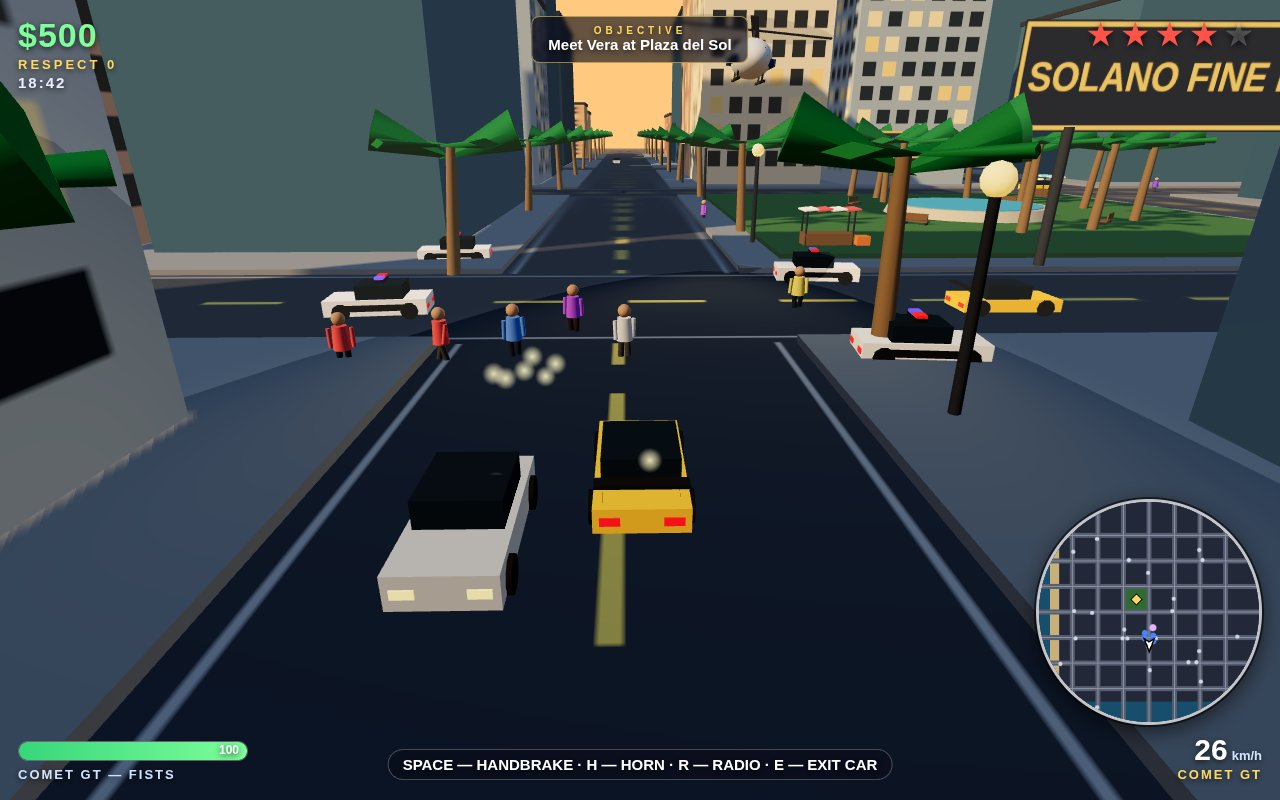
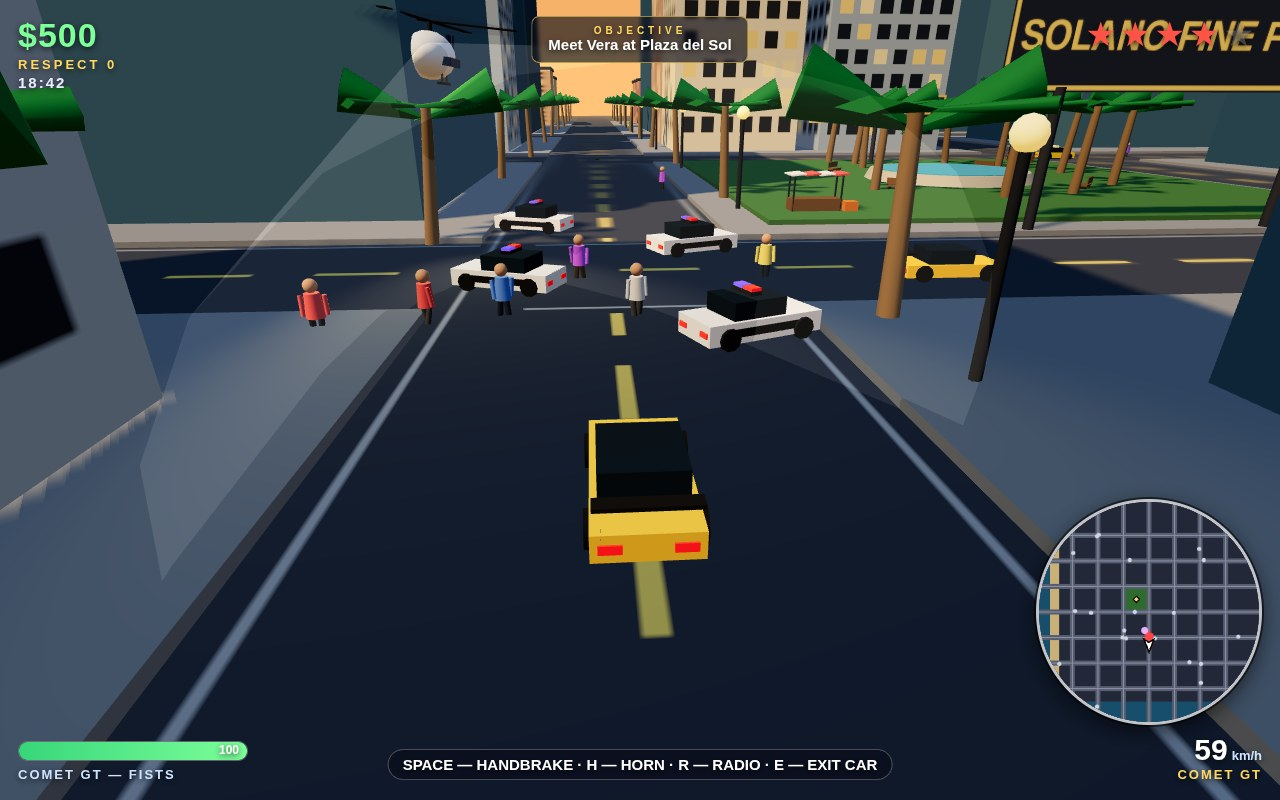
Round 4 (v4): presentation pass on the v2 base (2307a6b) — brighter sun/exposure, restaged screenshots: heli + roadblock cover, 4-cruiser chase, fountain-rim gunfight, clean beachfront getaway

diff --git a/game/js/main.js b/game/js/main.js
@@ -95,14 +95,15 @@ class Game {
     this.renderer.shadowMap.type = THREE.PCFSoftShadowMap;
     this.renderer.outputColorSpace = THREE.SRGBColorSpace;
     this.renderer.toneMapping = THREE.ACESFilmicToneMapping;
-    this.renderer.toneMappingExposure = 1.2;
+    this.renderer.toneMappingExposure = 1.3;
     document.getElementById('game').appendChild(this.renderer.domElement);
     this.scene = new THREE.Scene();
     this.scene.background = new THREE.Color(0xf7b26a);
     this.scene.fog = new THREE.Fog(0xe8a06a, 180, 620);
-    // Golden-hour sun from the west-southwest.
+    // Golden-hour sun from the west-southwest, raised a little so the
+    // avenues and the plaza read bright and sun-soaked, not shadowed.
     this.sun = new THREE.DirectionalLight(0xffd9a0, 2.6);
-    this.sun.position.set(-190, 150, 120);
+    this.sun.position.set(-165, 215, 105);
     this.sun.castShadow = true;
     this.sun.shadow.mapSize.set(2048, 2048);
     this.sun.shadow.camera.left = -260;
@@ -112,7 +113,7 @@ class Game {
     this.sun.shadow.camera.far = 700;
     this.sun.shadow.bias = -0.0004;
     this.scene.add(this.sun);
-    this.scene.add(new THREE.HemisphereLight(0x87a5c9, 0x8a6f4d, 1.5));
+    this.scene.add(new THREE.HemisphereLight(0x87a5c9, 0x8a6f4d, 1.65));
     this.camera = new THREE.PerspectiveCamera(62, innerWidth / innerHeight, 0.1, 1200);
     this.camera.position.set(SPAWN.x, 8, SPAWN.z + 12);
     addEventListener('resize', () => {
@@ -558,8 +559,8 @@ class Game {
       this.player.enterCar(car);
       car.speed = 20;
       this.camYaw = Math.PI;
-      this.camDistTarget = 12;
-      this.vehicles.spawnTraffic(10, 0, 60);
+      this.camDistTarget = 10;
+      this.vehicles.spawnTraffic(6, 0, 60);
       extraCrowd(0, 55, 10, 24);
       this.setWanted(4);
       // Four cruisers staged ahead in a loose roadblock so the wanted
@@ -571,9 +572,9 @@ class Game {
         pc.speed = 18;
         this.vehicles.police.push(pc);
       }
-      // The police helicopter hangs over the avenue ahead, its searchlight
-      // beam raking down onto the car (staged far ahead so it is in frame).
-      this.heli.stageAt(10, 40, 0, 96, 13);
+      // The police helicopter hangs over the avenue ahead-left, clear of
+      // the objective banner, its searchlight beam raking down onto the car.
+      this.heli.stageAt(-11, 47, 0, 96, 10);
       this.missions.index = 0;
       this.missions.startStory();
       startPlaying();
@@ -582,44 +583,44 @@ class Game {
       this.player.enterCar(car);
       car.speed = 26;
       this.camYaw = 0;
-      this.camDistTarget = 13;
+      this.camDistTarget = 10.5;
       // Police pursuit, staged deterministically ahead of the player so they
       // stay in frame: spawnPolice() picks a random road point instead.
-      for (let i = 0; i < 3; i++) {
-        const pc = this.vehicles.spawnCar(CAR_DEFS[0], 65 + (i % 2 ? -3.5 : 3.5), 56 + i * 12, 0, true);
+      // Four cruisers in a staggered pack, close enough to read as a chase.
+      for (let i = 0; i < 4; i++) {
+        const pc = this.vehicles.spawnCar(CAR_DEFS[0], 65 + (i % 2 ? -3.5 : 3.5), 54 + i * 8, 0, true);
         pc.isPolice = true;
         pc.speed = 24;
         this.vehicles.police.push(pc);
       }
-      this.vehicles.spawnTraffic(8, 65, 0);
+      this.vehicles.spawnTraffic(8, 65, 110);
       extraCrowd(65, 20, 8, 30);
       // Finale staging: step 2 of Skyfall is a 5-star escape drive, which
       // also brings the helicopter in overhead.
       this.missions.index = 8;
       this.missions.startStory();
       this.missions.advanceStep();
-      this.heli.stageAt(57, 100, 65, 40, 13);
+      this.heli.stageAt(58, 92, 65, 40, 12);
       startPlaying();
     } else if (this.shotMode === 'street') {
-      // Plaza del Sol park centre is (32.5, 32.5) with a fountain (r 7.6) —
-      // stand on the open grass south-west of it, facing the fountain, so
-      // the camera has a clear sightline (the old (-32,-18) spot was inside
-      // a building block and the camera filmed a wall). The stance point
-      // keeps the chase camera clear of the market-stall collider, which
-      // would otherwise lift it into a top-down view. Leo faces the
-      // fountain with his SMG up; the rival crew closes in around it.
-      this.player.place(24, 48, 2.64);
+      // Plaza del Sol park centre is (32.5, 32.5) with a fountain (r 7.6).
+      // Round 4 stance: the sunlit east rim of the fountain, close in, so
+      // the gunfight fills the frame — the old south-west grass stance sat
+      // in building shadow and left Leo small in a sea of dark lawn. Leo
+      // faces the fountain with his SMG up; the rival crew closes in
+      // around the rim, every stance point outside the fountain collider.
+      this.player.place(46, 44, -2.28);
       this.player.giveWeapon('pistol');
       this.player.giveWeapon('smg');
       this.player.equip('smg');
-      this.camYaw = 2.64;
-      this.camDistTarget = 8;
+      this.camYaw = -2.28;
+      this.camDistTarget = 6.5;
       this.setWanted(1);
       this.missions.index = 0;
       this.missions.startStory();
       // Rival crew shooting in the plaza — spawned by hand in the view
       // cone so they are in frame (mission 5's rivals spawn far away).
-      for (const [rx, rz] of [[24, 33], [34, 42], [41, 34]]) {
+      for (const [rx, rz] of [[41, 40], [43, 36], [38, 42]]) {
         const r = this.peds.spawnPed(rx, rz, false);
         r.isRival = true;
         r.hp = 100;
@@ -629,16 +630,29 @@ class Game {
         this.peds.armPed(r);
         this.missions.rivals.push(r);
       }
-      extraCrowd(32, 32, 10, 26);
+      extraCrowd(30, 30, 8, 20);
       startPlaying();
+      // The screenshot driver fires Leo's SMG through the game's own
+      // trigger once the camera has settled behind him, so a muzzle flash
+      // is up in the captured frame.
     } else if (this.shotMode === 'sunset') {
-      const car = spawn(-195, 30, Math.PI, CAR_DEFS[1]);
+      const car = spawn(-195, 52, Math.PI, CAR_DEFS[1]);
       this.player.enterCar(car);
       car.speed = 18;
       this.camYaw = Math.PI;
-      this.camDistTarget = 12;
-      this.vehicles.spawnTraffic(9, -195, 0);
-      extraCrowd(-205, 10, 8, 40);
+      this.camDistTarget = 10;
+      this.vehicles.spawnTraffic(7, -195, 20);
+      // Two cruisers staged ahead on the coast road, so the getaway the
+      // HUD names is visible in frame, not left to random police spawns.
+      for (const [px, pz] of [[-191.5, 24], [-198.5, 6]]) {
+        const pc = this.vehicles.spawnCar(CAR_DEFS[0], px, pz, Math.PI, true);
+        pc.isPolice = true;
+        pc.speed = 17;
+        this.vehicles.police.push(pc);
+      }
+      // Crowd on the beach side of the road, clear of the traffic lanes
+      // (the old wide cluster scattered peds into the road to be run over).
+      extraCrowd(-216, 42, 8, 13);
       this.missions.index = 5;
       this.missions.startStory();
       startPlaying();
